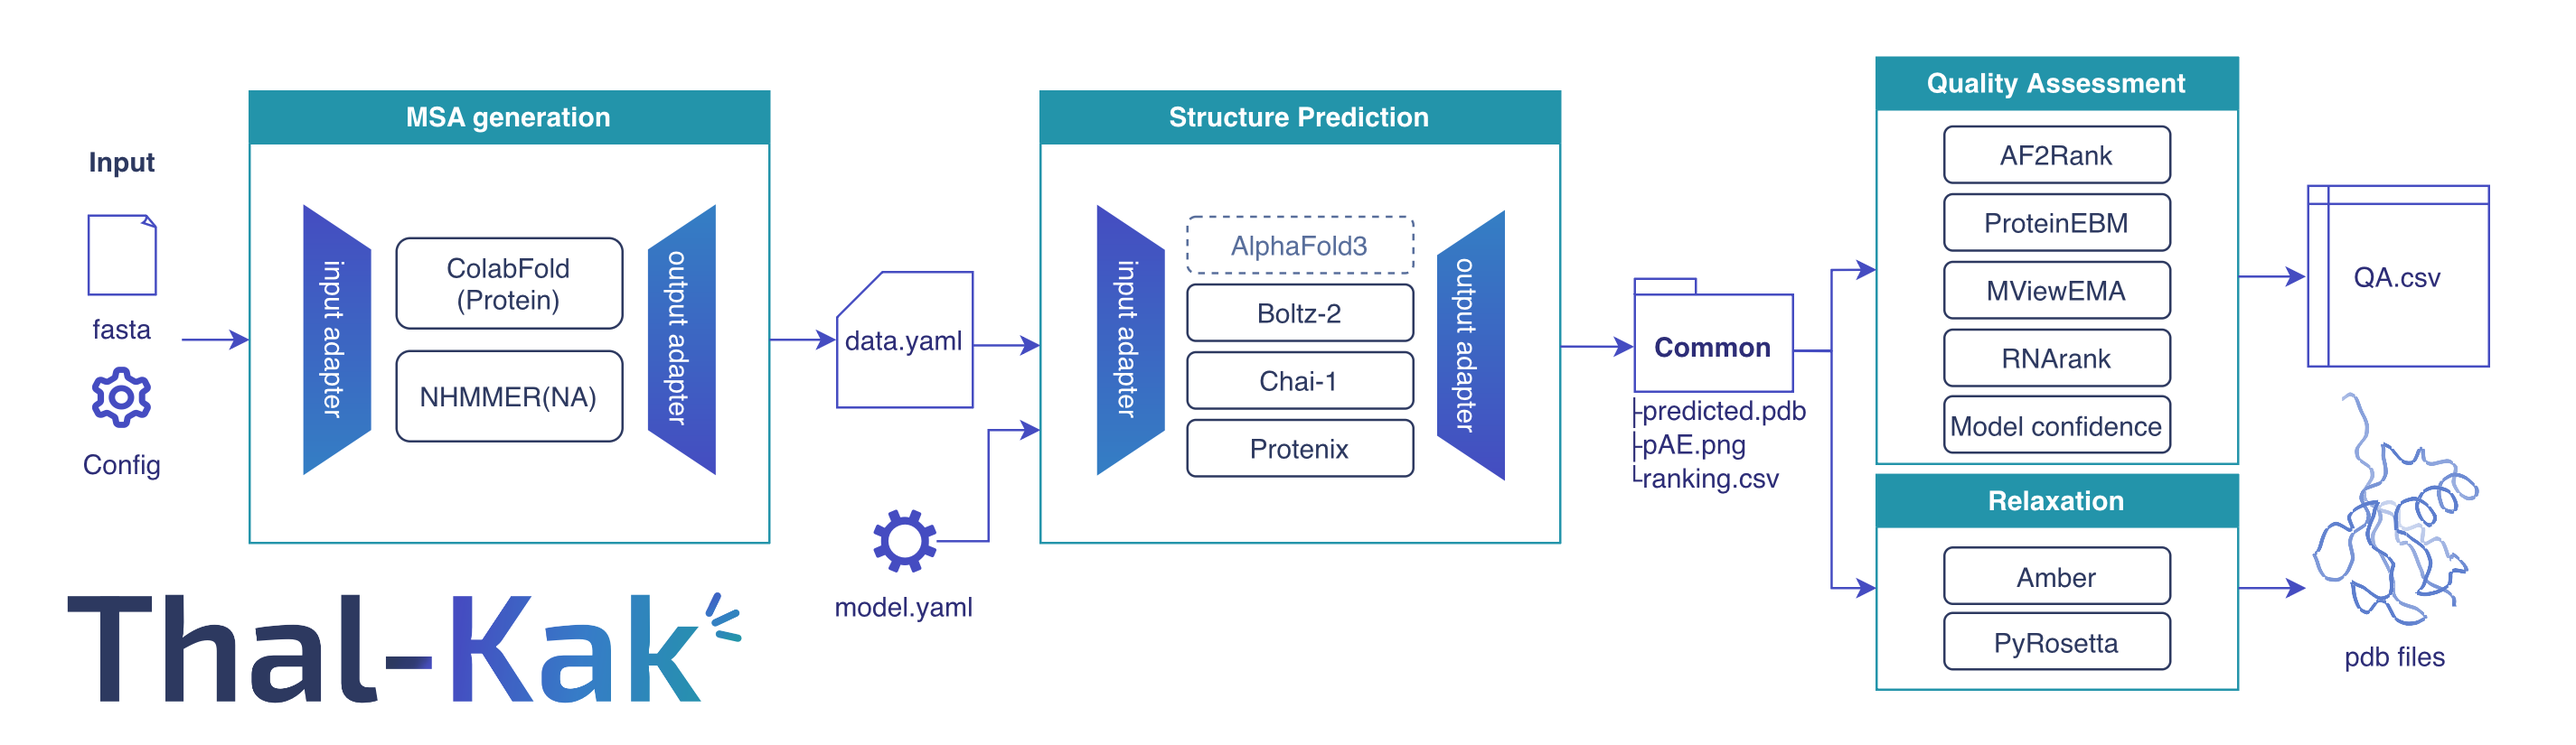
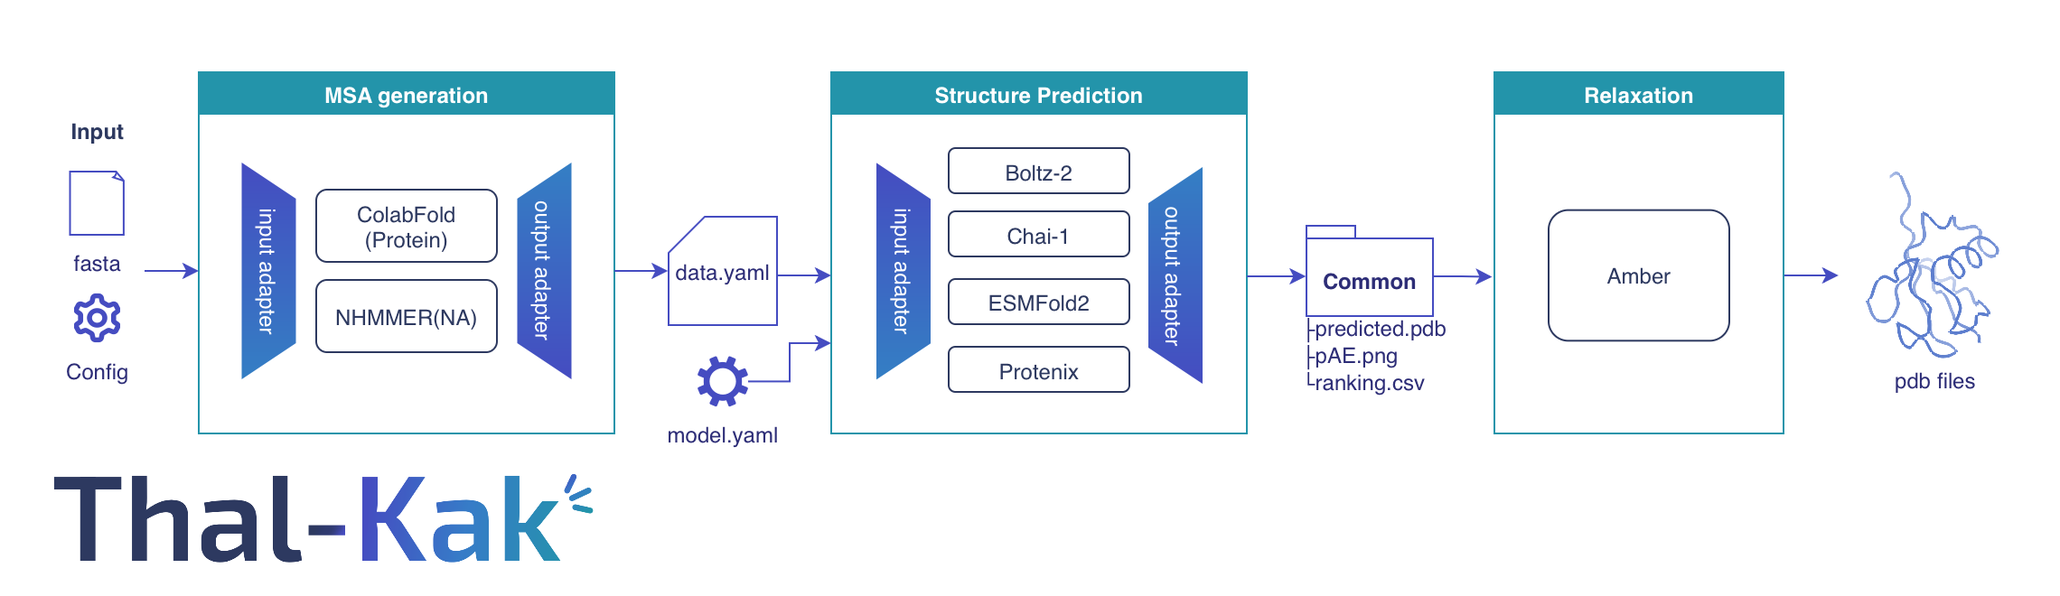
[Fix] add ESMfold2 and remove AF3&QA part at scheme.png

diff --git a/README.md b/README.md
@@ -12,6 +12,10 @@ by the predictor's own confidence, and relaxes them.
 
 ## Pipeline overview
 
+<div align="center">
+  <img alt="Thal-Kak pipeline scheme" src="assets/Thal-kak_scheme.png" width="800">
+</div>
+
 Three modular stages, each runnable on its own through the `thalkak` CLI:
 
 - **MSA generation** — turns the input FASTA + stoichiometry into a normalized
